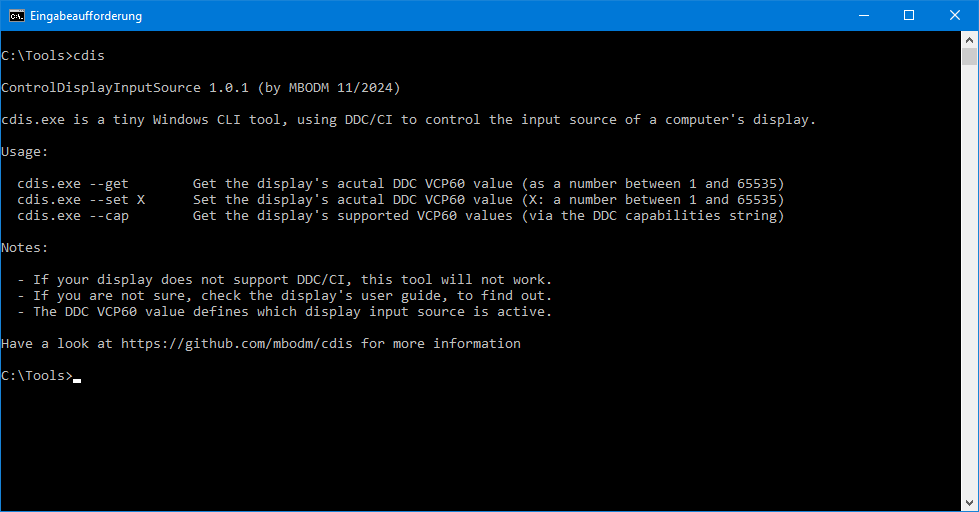
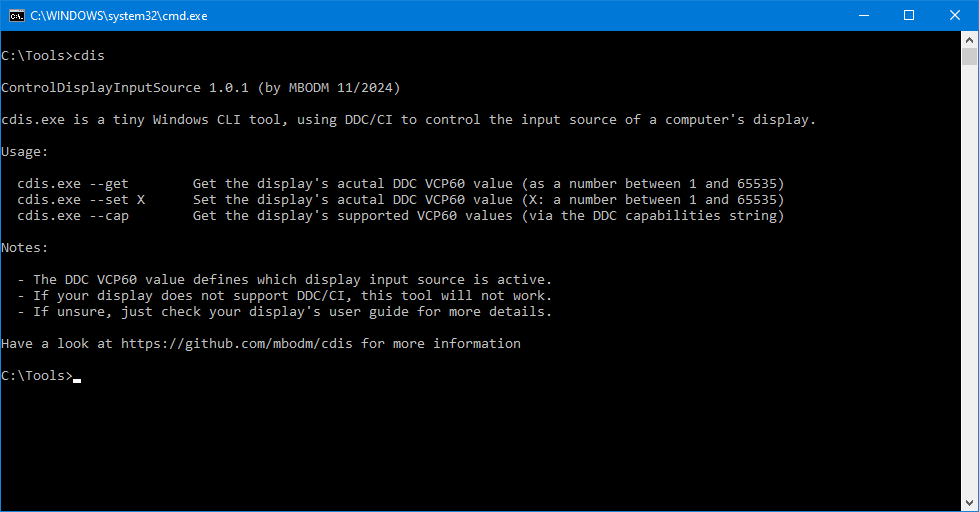
Added release candidate stuff.

Changed region(s): [[0.0306, 0.5312, 0.5516, 0.625], [0.0306, 0.0, 0.2145, 0.0625]]

diff --git a/archive/NET80WithSeparateLib/ControlDisplayInputSourceDDC/MonitorControl.cs b/archive/NET80WithSeparateLib/ControlDisplayInputSourceDDC/MonitorControl.cs
@@ -1,13 +1,13 @@
 using System.Text;
 
-namespace ControlDisplayInputSource
+namespace ControlDisplayInputSourceDDC
 {
     // No interface, since there is no real benefit in "programming against abstractions" here.
     // Cause you can do all the Windows DDC stuff here more or less in just one specific way.
     // Making this implementation interchangeable is therefore just useless, in my opinion.
     // Test-wise there is not much to test here and "do you wanna mock the Windows API?".
 
-    internal sealed class DDCMonitorControl
+    public sealed class MonitorControl
     {
         private IntPtr hPhysicalMonitor = IntPtr.Zero;
         private string szPhysicalMonitorDescription = string.Empty;
@@ -18,10 +18,10 @@ namespace ControlDisplayInputSource
         {
             if (!IsInitialized)
             {
-                var hWindow = DDCWinApi.GetDesktopWindow();
-                var hMonitor = DDCWinApi.MonitorFromWindow(hWindow, DDCWinApi.MONITOR_DEFAULTTOPRIMARY);
+                var hWindow = WinApi.GetDesktopWindow();
+                var hMonitor = WinApi.MonitorFromWindow(hWindow, WinApi.MONITOR_DEFAULTTOPRIMARY);
 
-                if (!DDCWinApi.GetNumberOfPhysicalMonitorsFromHMONITOR(hMonitor, out uint numberOfPhysicalMonitors))
+                if (!WinApi.GetNumberOfPhysicalMonitorsFromHMONITOR(hMonitor, out uint numberOfPhysicalMonitors))
                 {
                     ThrowException("Could not determine number of physical monitors.", 50);
                 }
@@ -33,7 +33,7 @@ namespace ControlDisplayInputSource
 
                 var physicalMonitors = new PHYSICAL_MONITOR[numberOfPhysicalMonitors];
 
-                if (!DDCWinApi.GetPhysicalMonitorsFromHMONITOR(hMonitor, numberOfPhysicalMonitors, physicalMonitors))
+                if (!WinApi.GetPhysicalMonitorsFromHMONITOR(hMonitor, numberOfPhysicalMonitors, physicalMonitors))
                 {
                     ThrowException("Could not determine primary physical monitor.", 52);
                 }
@@ -56,7 +56,7 @@ namespace ControlDisplayInputSource
         {
             Init();
 
-            if (!DDCWinApi.GetVCPFeatureAndVCPFeatureReply(hPhysicalMonitor, 0x60, out _, out uint currentValue, out _))
+            if (!WinApi.GetVCPFeatureAndVCPFeatureReply(hPhysicalMonitor, 0x60, out _, out uint currentValue, out _))
             {
                 ThrowException("Could not get current VCP60 value.", 53);
             }
@@ -68,7 +68,7 @@ namespace ControlDisplayInputSource
         {
             Init();
 
-            if (!DDCWinApi.SetVCPFeature(hPhysicalMonitor, 0x60, value))
+            if (!WinApi.SetVCPFeature(hPhysicalMonitor, 0x60, value))
             {
                 ThrowException("Could not set VCP60 value.", 54);
             }
@@ -78,7 +78,7 @@ namespace ControlDisplayInputSource
         {
             Init();
 
-            var result = DDCWinApi.GetCapabilitiesStringLength(hPhysicalMonitor, out uint pdwCapabilitiesStringLengthInCharacters);
+            var result = WinApi.GetCapabilitiesStringLength(hPhysicalMonitor, out uint pdwCapabilitiesStringLengthInCharacters);
             if (!result || pdwCapabilitiesStringLengthInCharacters == 0)
             {
                 ThrowException("Could not determine length of DDC capabilities string.", 55);
@@ -86,7 +86,7 @@ namespace ControlDisplayInputSource
 
             var pszASCIICapabilitiesString = new StringBuilder((int)pdwCapabilitiesStringLengthInCharacters);
 
-            if (!DDCWinApi.CapabilitiesRequestAndCapabilitiesReply(hPhysicalMonitor, pszASCIICapabilitiesString, pdwCapabilitiesStringLengthInCharacters))
+            if (!WinApi.CapabilitiesRequestAndCapabilitiesReply(hPhysicalMonitor, pszASCIICapabilitiesString, pdwCapabilitiesStringLengthInCharacters))
             {
                 ThrowException("Could not determine DDC capabilities.", 56);
             }

diff --git a/archive/NET48/ControlDisplayInputSource/Program.cs b/archive/NET48/ControlDisplayInputSource/Program.cs
@@ -1,0 +1,80 @@
+using System;
+
+namespace ControlDisplayInputSource
+{
+    internal class Program
+    {
+        static void Main(string[] args)
+        {
+            Console.WriteLine();
+            Console.WriteLine(Helper.AppTitle);
+
+            if (args.Length < 1)
+            {
+                Helper.ExitWithSuccess(true);
+            }
+
+            var isGet = args[0] == "--get";
+            var isSet = args[0] == "--set";
+            var isCap = args[0] == "--cap";
+
+            if ((isGet && args.Length > 1) || (isSet && args.Length > 2) || (isCap && args.Length > 1))
+            {
+                Helper.ExitWithError(1, "Too many arguments.");
+            }
+
+            try
+            {
+                var mc = new DDCMonitorControl();
+
+                mc.Init();
+
+                if (isGet)
+                {
+                    Console.WriteLine();
+                    Console.WriteLine($"Display description: {mc.GetMonitorDescription()}");
+                    Console.WriteLine($"Current VCP60 value: {mc.GetVCP60Value()}");
+                }
+                else if (isSet)
+                {
+                    if (!uint.TryParse(args[1], out uint value) || value < 1 || value > 65535)
+                    {
+                        Helper.ExitWithError(3, "Given argument is not a number between 1 and 65535.");
+                    }
+
+                    Console.WriteLine();
+                    Console.WriteLine($"Display description: {mc.GetMonitorDescription()}");
+                    Console.WriteLine($"Set new VCP60 value: {value}");
+
+                    mc.SetVCP60Value(value);
+                }
+                else if (isCap)
+                {
+                    var capString = mc.GetCapabilitiesString();
+
+                    var vcp60Numbers = Helper.GetVCP60ValuesAsNumbersFromCapabilitiesString(capString);
+                    if (string.IsNullOrEmpty(vcp60Numbers))
+                    {
+                        Helper.ExitWithError(4, "Could not parse the VCP60 numbers from DDC capabilities string.");
+                    }
+
+                    Console.WriteLine();
+                    Console.WriteLine($"Display description: {mc.GetMonitorDescription()}");
+                    Console.WriteLine($"Support for VCP60 #: {vcp60Numbers}");
+                }
+                else
+                {
+                    Helper.ExitWithError(2, "Unknown argument.");
+                }
+            }
+            catch (InvalidOperationException e)
+            {
+                var exitCode = e.Data.Contains("code") && e.Data["code"] is int value ? value : 255;
+
+                Helper.ExitWithError(exitCode, e.Message);
+            }
+
+            Helper.ExitWithSuccess(false);
+        }
+    }
+}

diff --git a/archive/NET48/ControlDisplayInputSource/Helper.cs b/archive/NET48/ControlDisplayInputSource/Helper.cs
@@ -1,4 +1,7 @@
-using System.Globalization;
+using System;
+using System.Collections.Generic;
+using System.Globalization;
+using System.Linq;
 using System.Reflection;
 
 namespace ControlDisplayInputSource
@@ -26,9 +29,9 @@ namespace ControlDisplayInputSource
                 Console.WriteLine();
                 Console.WriteLine("Notes:");
                 Console.WriteLine();
-                Console.WriteLine("  - The DDC VCP60 value defines which display input source is active.");
                 Console.WriteLine("  - If your display does not support DDC/CI, this tool will not work.");
-                Console.WriteLine("  - If unsure, just check your display's user guide for more details.");
+                Console.WriteLine("  - If you are not sure, check the display's user guide, to find out.");
+                Console.WriteLine("  - The DDC VCP60 value defines which display input source is active.");
                 Console.WriteLine();
                 Console.WriteLine("Have a look at https://github.com/mbodm/cdis for more information");
             }
@@ -67,14 +70,16 @@ namespace ControlDisplayInputSource
             }
 
             var vcp60HexValuesString = capabilitiesString.
-                Split("60(", StringSplitOptions.RemoveEmptyEntries | StringSplitOptions.TrimEntries).Last().
-                Split(')', StringSplitOptions.RemoveEmptyEntries | StringSplitOptions.TrimEntries).First();
+                Split(new string[] { "60(" }, StringSplitOptions.RemoveEmptyEntries).
+                Last().Trim().
+                Split(new char[] { ')' }, StringSplitOptions.RemoveEmptyEntries).
+                First().Trim();
             if (string.IsNullOrEmpty(vcp60HexValuesString))
             {
                 return string.Empty;
             }
 
-            var hexValues = vcp60HexValuesString.Split(' ', StringSplitOptions.RemoveEmptyEntries | StringSplitOptions.TrimEntries);
+            var hexValues = vcp60HexValuesString.Split(new char[] { ' ' }, StringSplitOptions.RemoveEmptyEntries);
             var decValues = new List<uint>();
             foreach (var hex in hexValues)
             {

diff --git a/archive/NET80WithSeparateLib/ControlDisplayInputSource/Helper.cs b/archive/NET80WithSeparateLib/ControlDisplayInputSource/Helper.cs
@@ -26,9 +26,9 @@ namespace ControlDisplayInputSource
                 Console.WriteLine();
                 Console.WriteLine("Notes:");
                 Console.WriteLine();
-                Console.WriteLine("  - The DDC VCP60 value defines which display input source is active.");
                 Console.WriteLine("  - If your display does not support DDC/CI, this tool will not work.");
-                Console.WriteLine("  - If unsure, just check your display's user guide for more details.");
+                Console.WriteLine("  - If you are not sure, check the display's user guide, to find out.");
+                Console.WriteLine("  - The DDC VCP60 value defines which display input source is active.");
                 Console.WriteLine();
                 Console.WriteLine("Have a look at https://github.com/mbodm/cdis for more information");
             }

diff --git a/archive/NET48/ControlDisplayInputSource/DDCMonitorControl.cs b/archive/NET48/ControlDisplayInputSource/DDCMonitorControl.cs
@@ -1,11 +1,10 @@
-using System.Text;
+using System;
+using System.Text;
 
 namespace ControlDisplayInputSource
 {
-    // No interface, since there is no real benefit in "programming against abstractions" here.
-    // Cause you can do all the Windows DDC stuff here more or less in just one specific way.
-    // Making this implementation interchangeable is therefore just useless, in my opinion.
-    // Test-wise there is not much to test here and "do you wanna mock the Windows API?".
+    // Since you can do this Windows DDC stuff here more or less in just one specific way,
+    // there is no real benefit in "programming against an abstraction" (interface), etc.
 
     internal sealed class DDCMonitorControl
     {

diff --git a/archive/NET80WithSeparateLib/ControlDisplayInputSourceDDC/WinApi.cs b/archive/NET80WithSeparateLib/ControlDisplayInputSourceDDC/WinApi.cs
@@ -1,7 +1,7 @@
 using System.Runtime.InteropServices;
 using System.Text;
 
-namespace ControlDisplayInputSource
+namespace ControlDisplayInputSourceDDC
 {
     internal enum LPMC_VCP_CODE_TYPE
     {
@@ -17,7 +17,7 @@ namespace ControlDisplayInputSource
         public string szPhysicalMonitorDescription;
     }
 
-    internal class DDCWinApi
+    internal class WinApi
     {
         public const uint MONITOR_DEFAULTTOPRIMARY = 1;
 

diff --git a/archive/NET80WithSeparateLib/ControlDisplayInputSource/Program.cs b/archive/NET80WithSeparateLib/ControlDisplayInputSource/Program.cs
@@ -1,4 +1,5 @@
 using ControlDisplayInputSource;
+using ControlDisplayInputSourceDDC;
 
 Console.WriteLine();
 Console.WriteLine(Helper.AppTitle);
@@ -19,7 +20,7 @@ if ((isGet && args.Length > 1) || (isSet && args.Length > 2) || (isCap && args.L
 
 try
 {
-    var mc = new DDCMonitorControl();
+    var mc = new MonitorControl();
 
     mc.Init();
 

diff --git a/archive/NET48/ControlDisplayInputSource/DDCWinApi.cs b/archive/NET48/ControlDisplayInputSource/DDCWinApi.cs
@@ -1,4 +1,5 @@
-using System.Runtime.InteropServices;
+using System;
+using System.Runtime.InteropServices;
 using System.Text;
 
 namespace ControlDisplayInputSource
